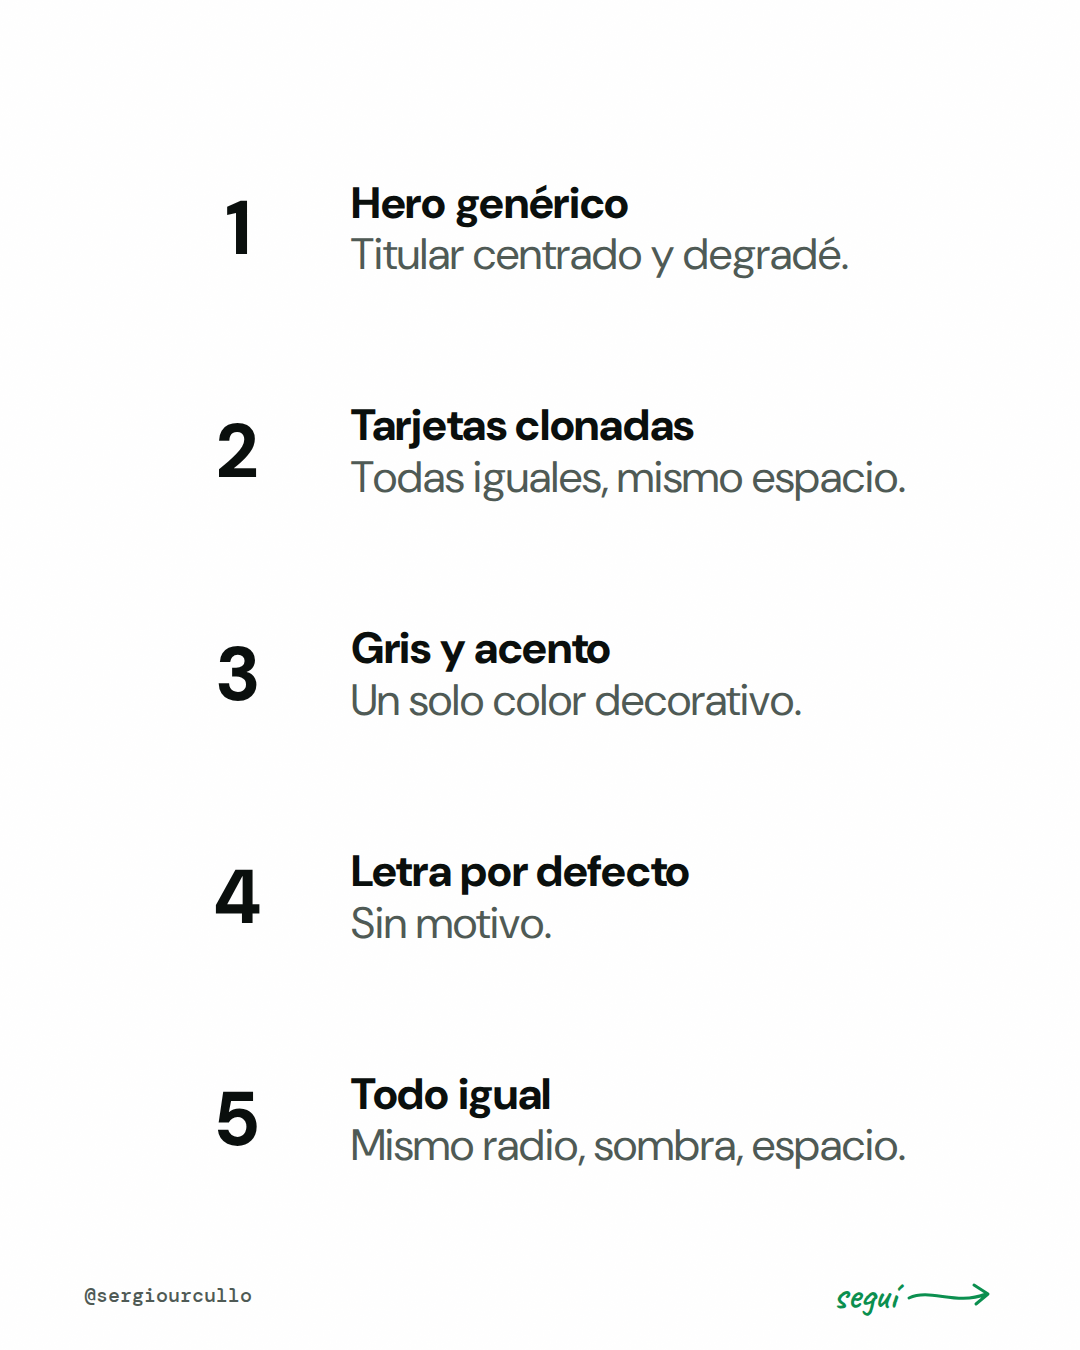
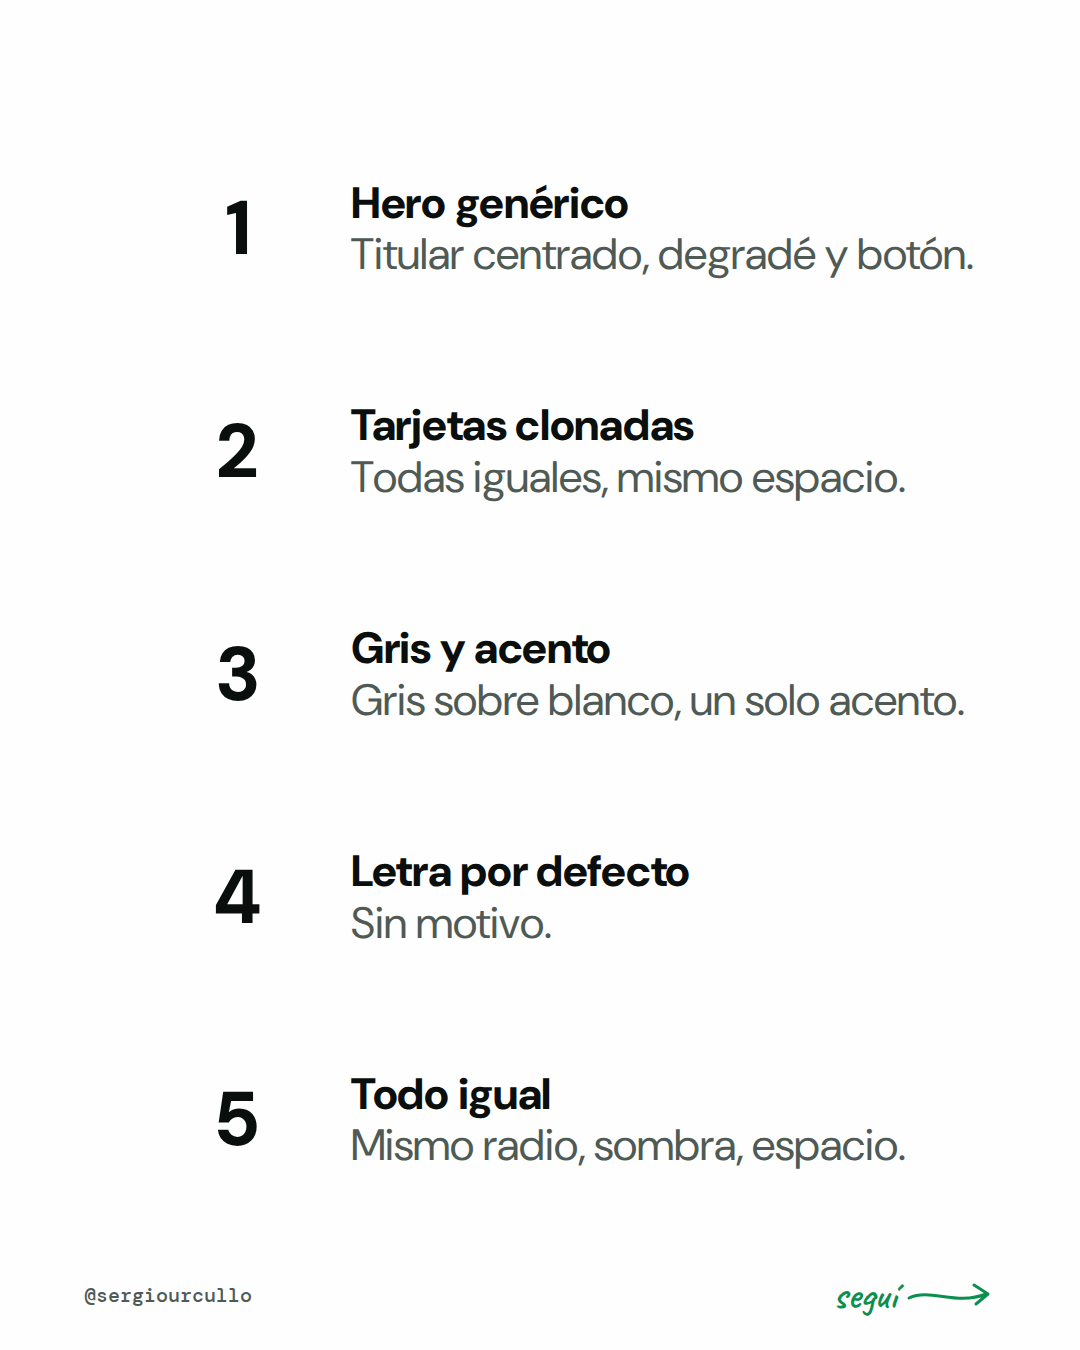
fix(carruseles): Tics de webs con IA y 78h, rojos del verificador (haiku)
Tics: los tics 1 y 3 siguen la redacción del aviso DISEÑO, el conteo a ciegas dice que cubre los 5 primeros,
el alt_text sin notas de producción y la línea 1 del caption igual que la lámina 5. 78h: misma línea 1.
El badge pasa a minúsculas («[X] tics») porque «12 TICS» se cortaba en el círculo.

Claude-Session: https://claude.ai/code/session_01WPecmppa9uZEc4fJDjSmaS

Changed region(s): [[0.3056, 0.4978, 0.8861, 0.5289], [0.6111, 0.1556, 0.8861, 0.2178]]

diff --git a/hermes-content/docs/cola/loop/marca-personal.md b/hermes-content/docs/cola/loop/marca-personal.md
@@ -7,9 +7,9 @@
 - [ ] P1 «Niveles» y P3 pizarra (HyperFrames, sin cara) para los días sin bruto
 - [ ] P2 carrusel «7 herramientas» el sáb 17
 - [ ] Molde «mosaico-tablero» (`videos/moldes/mosaico-tablero/`, réplica del reel DePBfHouarG): renderizarlo, mirarlo y usarlo en una pieza
-- [ ] **«78h en una tarea»** · dom 18-oct 16:00 La Paz · palabra CHECKLIST · acompaña a DU-01 · **LISTA PARA MOSTRAR** (render `8d5120729`, láminas `hermes-content/carousels/out/sergio-78h-una-tarea-20261018/`, brief `briefs/marca-personal/sergio-78h-una-tarea-20261018.json`). Ya no hay [MEDIR] de números (la cuenta 30 × 3 min × 52 = 78 h es de EJEMPLO y se rotula). **Queda 1 [MEDIR]:** que el aviso CHECKLIST esté pegado en Avisos (la nube no ve la comunidad: lo confirma la madre o Sergio Urcullo); si no está, la lámina 5 pasa a «Lo que probé está en mi comunidad. Link en mi perfil.». La lámina 5 es texto sobre negro hasta que exista el fotograma de DU-01. **No se publica** hasta que la madre diga «mostrada, publicá 78h».
+- [ ] **«78h en una tarea»** · dom 18-oct 16:00 La Paz · palabra CHECKLIST · acompaña a DU-01 · **LISTA PARA MOSTRAR** (render `8d5120729`, láminas `hermes-content/carousels/out/sergio-78h-una-tarea-20261018/`, brief `briefs/marca-personal/sergio-78h-una-tarea-20261018.json`). Ya no hay [MEDIR] de números (la cuenta 30 × 3 min × 52 = 78 h es de EJEMPLO y se rotula). **Queda 1 [MEDIR]:** que el aviso CHECKLIST esté pegado en Avisos (la nube no ve la comunidad: lo confirma la madre o Sergio Urcullo); si no está, la lámina 5 pasa a «Lo que probé está en mi comunidad. Link en mi perfil.». La lámina 5 es texto sobre negro hasta que exista el fotograma de DU-01. **No se publica** hasta que la madre diga «mostrada, publicá 78h». Verificador `verificador-de-promesas` pasado el 11-oct (2 rojos corregidos en `0bcfd5295` y una línea 1 del caption igualada a la lámina 5). modelos: haiku (verificador); codex: ninguno.
 - [ ] **Carruseles «por armar» del 17-23-oct** (palabra de la pieza del día, receta «Inventario continuo» si hay 6+ ítems, cierre «Buscá PALABRA en Avisos»): lun 19 FACTURA · mar 20 RONDAS · jue 22 asesoría (sin palabra) · vie 23 EQUIPO. Cada uno espera la medición de su video (`GRABAR-17-23-OCT.md`, tabla «Antes de grabar»): sin cifra no se arma. Calendario en `docs/cola/plan-3-semanas/CALENDARIO-PUBLICACION-17-23-OCT.md` (armado el 10-oct 20:40 UTC).
-- [ ] **«Tics de webs con IA»** · mié 21-oct 16:00 La Paz · palabra DISEÑO · acompaña a CC-02 · **BORRADOR, NO lista** (render `8d5120729`, `hermes-content/carousels/out/sergio-tics-webs-ia-20261021-borrador/`). Portada vacía a propósito: falta la captura C1 (web A con «EJEMPLO»); la lámina 4 lleva `[X] [Y] [X2] [Y2]` de la medición del jue 15, ningún número inventado. Si CC-02 pasa a la reserva, no sale. El aviso DISEÑO tiene que estar pegado antes de las 12:30 del mié 21. Cuando lleguen C1 y los números: editar el brief, renderizar con el nombre final (sin `-borrador`) y avisar a la madre.
+- [ ] **«Tics de webs con IA»** · mié 21-oct 16:00 La Paz · palabra DISEÑO · acompaña a CC-02 · **BORRADOR, NO lista** (render `8d5120729`, `hermes-content/carousels/out/sergio-tics-webs-ia-20261021-borrador/`). Portada vacía a propósito: falta la captura C1 (web A con «EJEMPLO»); la lámina 4 lleva `[X] [Y] [X2] [Y2]` de la medición del jue 15, ningún número inventado. Si CC-02 pasa a la reserva, no sale. Verificador `verificador-de-promesas` el 11-oct: 3 rojos corregidos (tic 1 y 3 como en el aviso DISEÑO, «[X2] contra [Y2] en los 5 primeros», caption línea 1 = lámina 5); si la medición no muestra menos tics con la skill, el carrusel no sale. modelos: haiku (verificador); codex: ninguno. El aviso DISEÑO tiene que estar pegado antes de las 12:30 del mié 21. Cuando lleguen C1 y los números: editar el brief, renderizar con el nombre final (sin `-borrador`) y avisar a la madre.
 
 ## Bloqueado (causa · responsable · siguiente acción) — Marca personal, 9-oct 17:00 UTC
 - **⚠ INSTAGRAM `@sergiourcullo` RESTRINGIDA (medido 9-oct 20:28 UTC):** el carrusel de las 16:00 La Paz falló en Instagram a las 20:00:06 UTC con `ERROR 400 OAuthException code 25, subcode 2207050: «The Instagram account is restricted»` (`journalctl -u pub-car-20261009.service`, `fbtrace_id Av58KFqjqmRQs_kD9dgKJOk`). En LinkedIn y TikTok (Buffer) sí salió (posts `6ac947ffc4de2d2b1204fc36` y `6ac9483bf91f772d456f0c55`). El del 8-oct salió en IG sin problema: la restricción empezó entre el 8-oct 20:00 y el 9-oct 20:00 UTC. Afecta TODO lo que va por la API: el reel N03 de las 22:30 UTC, los carruseles agendados hasta el 16-oct y las historias. Responsable: Sergio Urcullo (abrir la app de Instagram y ver el aviso de restricción / verificación / apelación en Centro de cuentas). Siguiente: no insistir por API hasta que la levante; cuando salga, volver a agendar el carrusel de hoy (`car-20261009`) y revisar los del resto de la semana.
